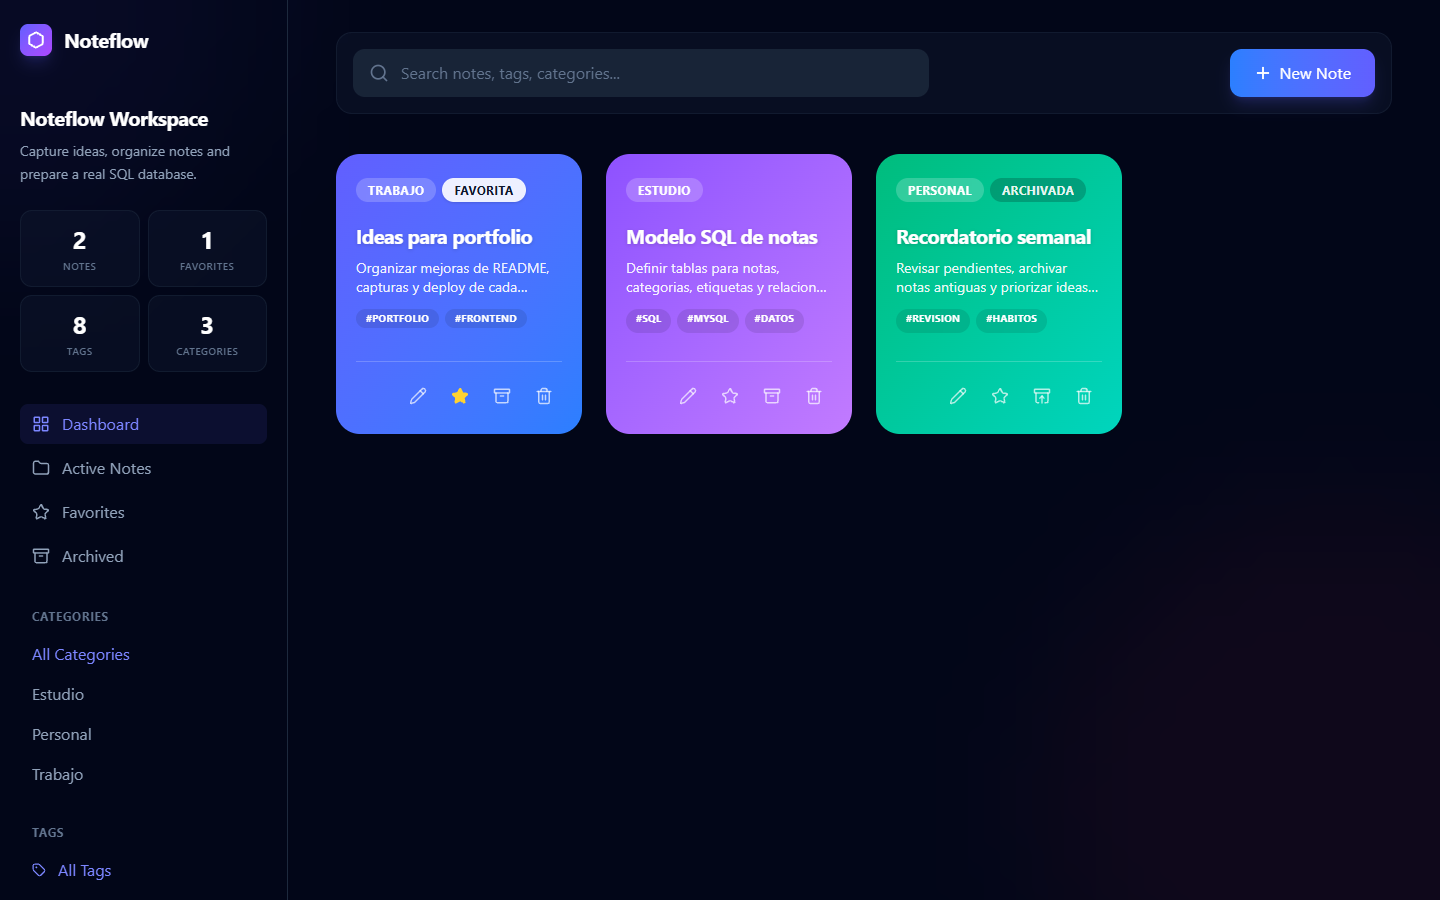
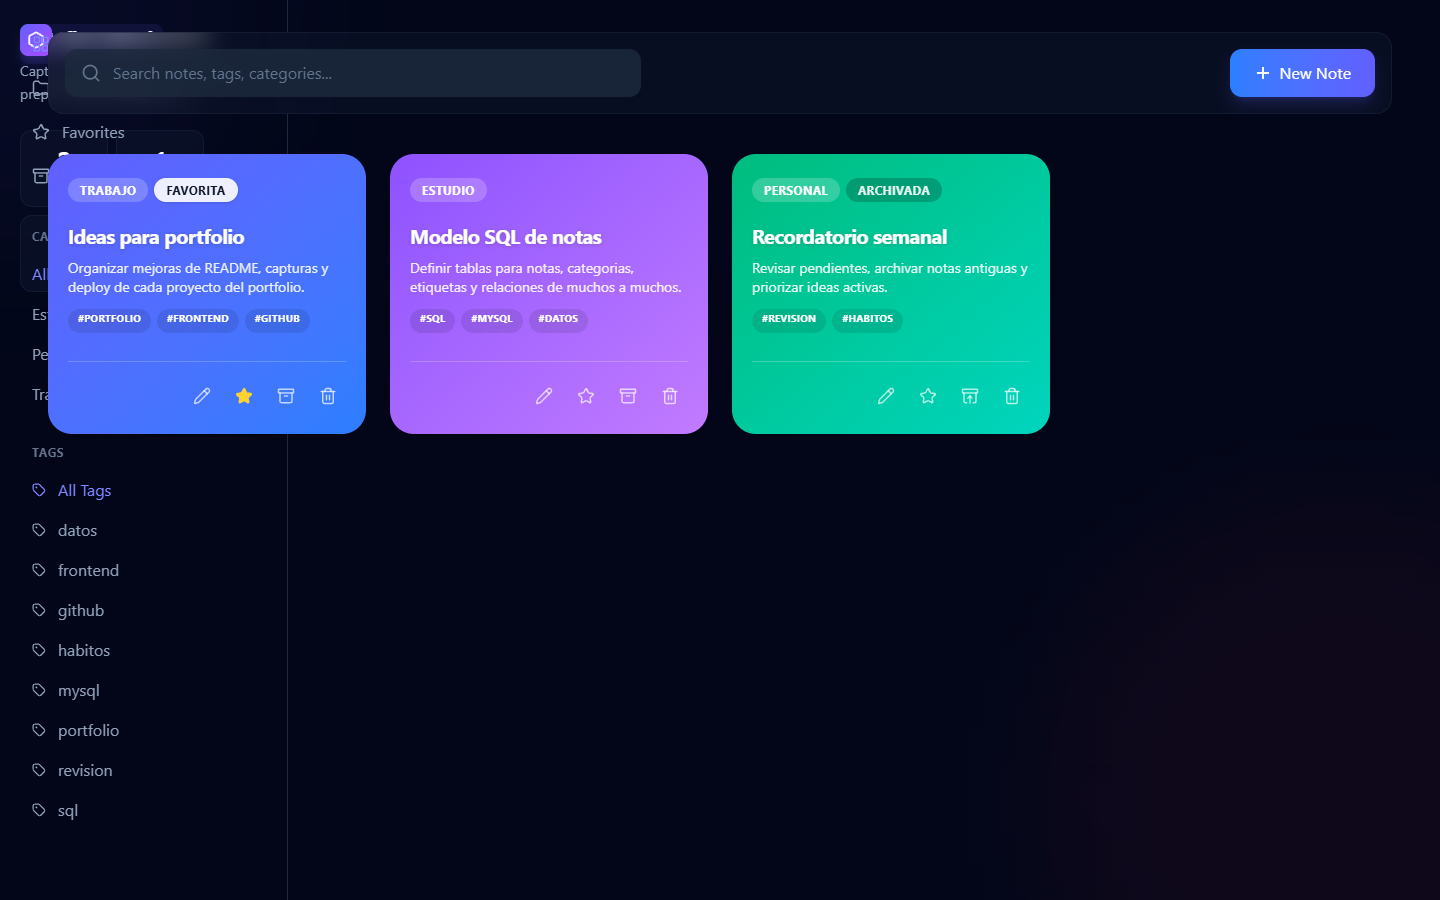
fix: correct full-page mobile screenshot styling

diff --git a/README.md b/README.md
@@ -82,11 +82,11 @@ Opción recomendada para entorno de desarrollo:
 
 ### Desktop
 
-![Vista desktop de Noteflow](./screenshots/desktop.png?v=20260702-full)
+![Vista desktop de Noteflow](./screenshots/desktop.png?v=20260702-fixed)
 
 ### Mobile
 
-![Vista mobile de Noteflow](./screenshots/mobile.png?v=[phone redacted]-full)
+![Vista mobile de Noteflow](./screenshots/mobile.png?v=[phone redacted]-fixed)
 
 ## Deploy
 